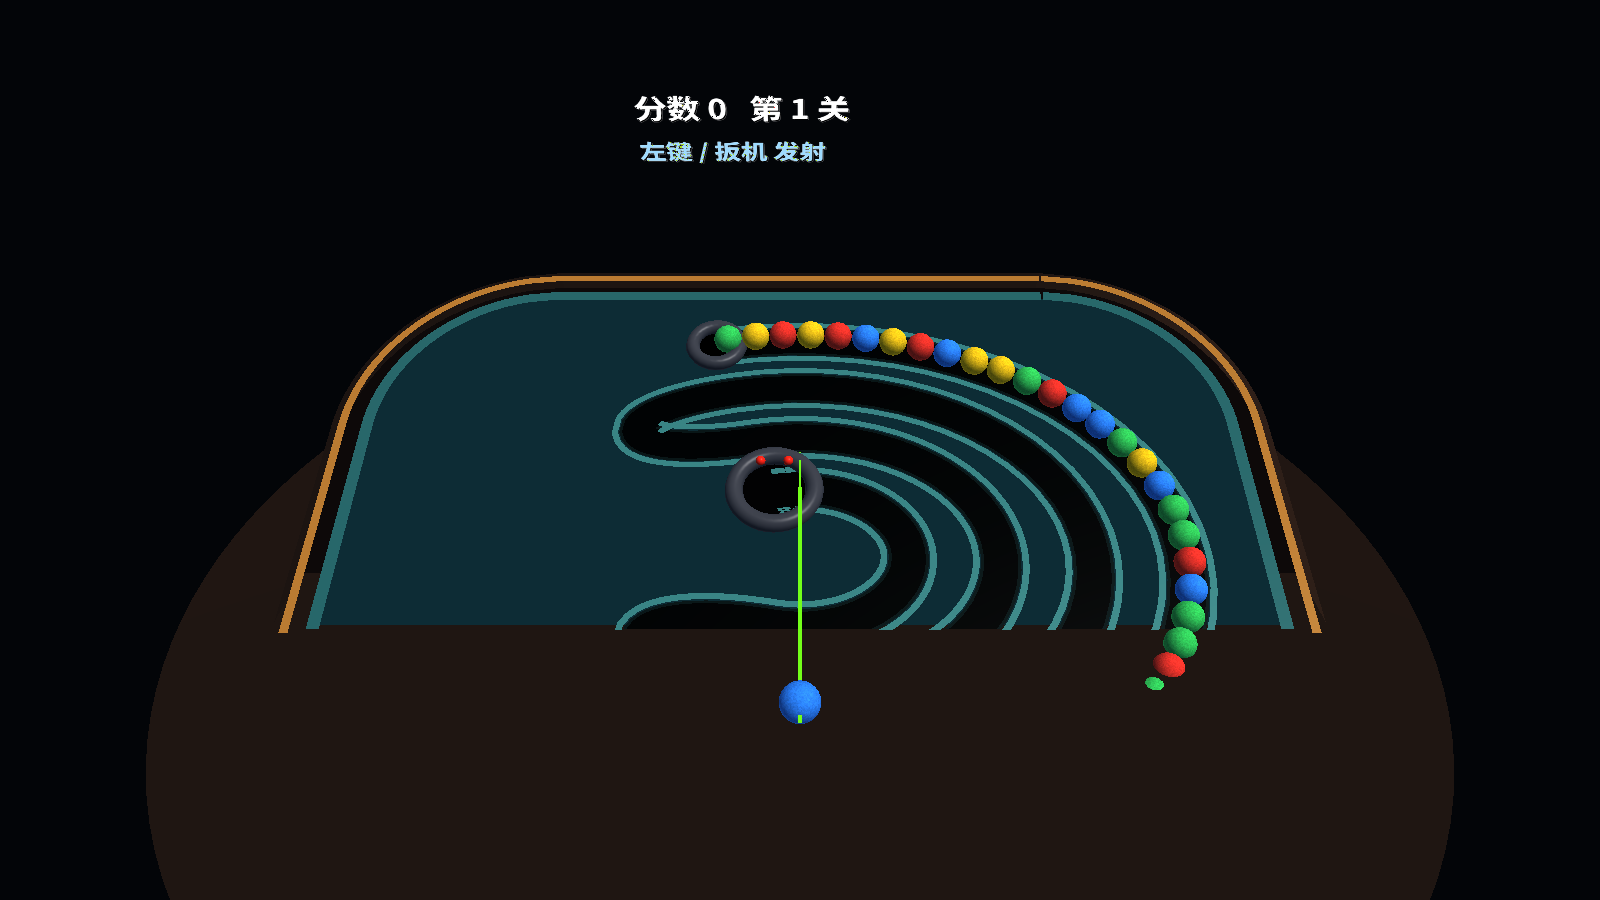
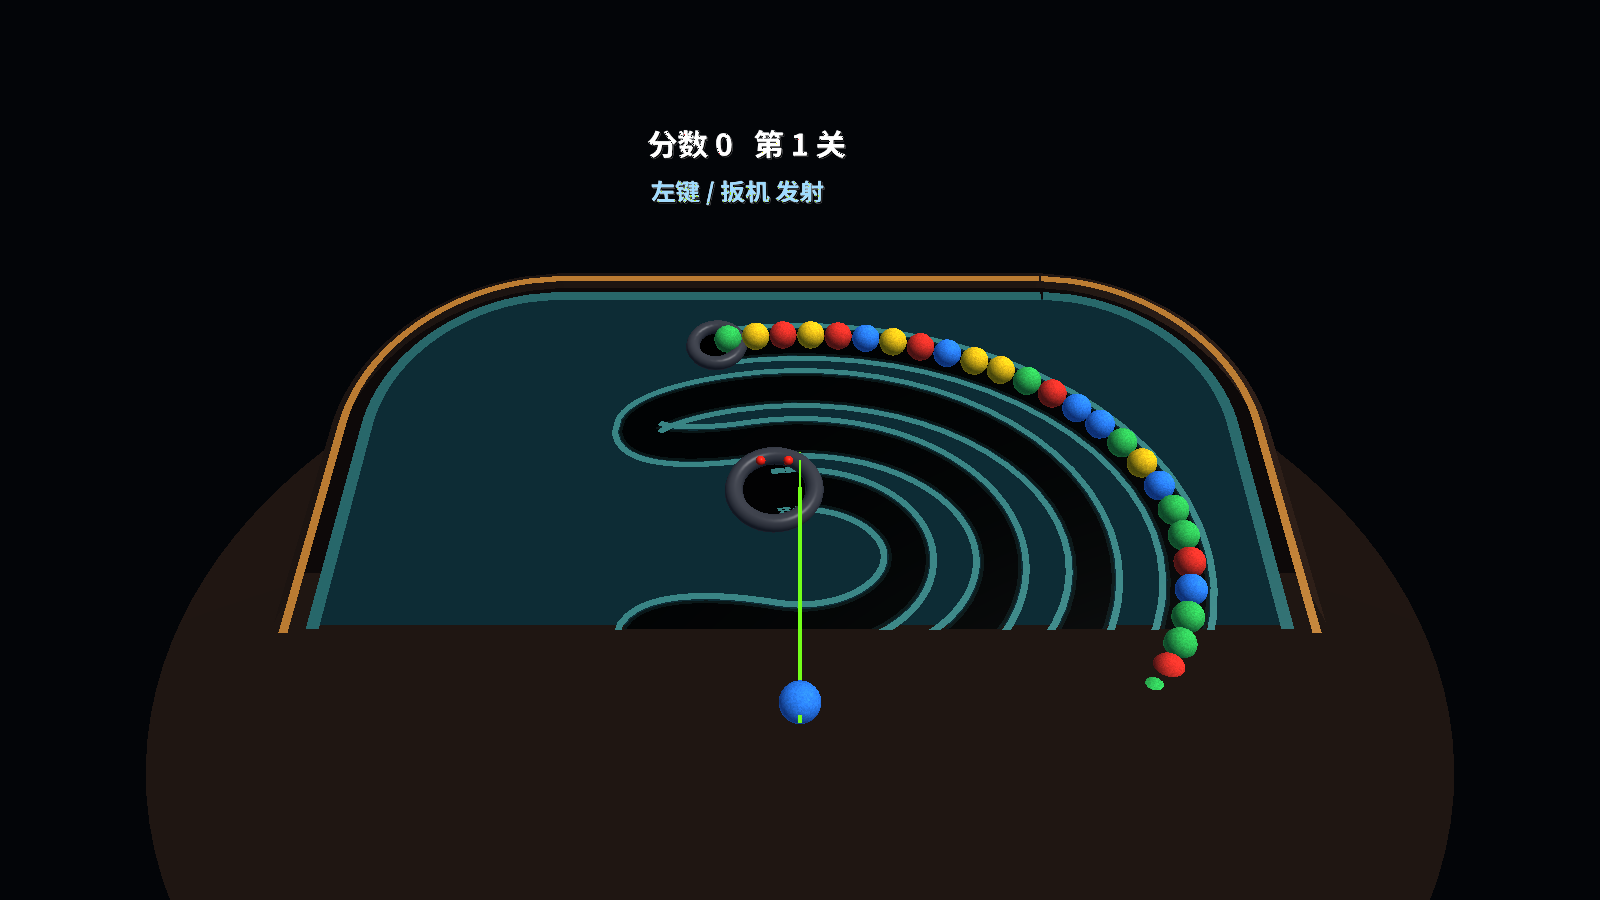
feat(vr): HUD 与结算文字改用直立坐标系，永不受桌面倾角影响
- Draw 增加 hud 矩阵：桌面/盘面仍带倾角，文字用不带倾角的同一尺度框架
- VR 的 hudFrame = Translate(0, tableY, tableZ)·Scale，桌面窗口用单位阵
- 记分栏与结算/结束文字的局部高度上抬（1.15/0.89 m），补偿原来被 20° 倾角抬起来的那部分
- 文档截图重新生成；README 说明文字 90° 直立

Changed region(s): [[0.375, 0.0933, 0.5312, 0.2489]]

diff --git a/internal/render/render.go b/internal/render/render.go
@@ -555,7 +555,10 @@ func (r *Renderer) drawController(pose mgl32.Mat4) {
 	}
 }
 
-func (r *Renderer) Draw(vp mgl32.Mat4, cam mgl32.Vec3, world mgl32.Mat4, g *game.Game, now float64, aimO, aimD mgl32.Vec3, aimOK bool, hand mgl32.Mat4, handOK bool) {
+// Draw renders the round. world places the table (it carries the tilt); hud is
+// the same frame without that tilt, so the score and result text always stand
+// upright in the room.
+func (r *Renderer) Draw(vp mgl32.Mat4, cam mgl32.Vec3, world, hud mgl32.Mat4, g *game.Game, now float64, aimO, aimD mgl32.Vec3, aimOK bool, hand mgl32.Mat4, handOK bool) {
 	r.meshProg.Bind()
 	r.meshProg.Mat4(r.uVP, vp)
 	r.meshProg.Vec3(r.uCam, cam[0], cam[1], cam[2])
@@ -627,7 +630,7 @@ func (r *Renderer) Draw(vp mgl32.Mat4, cam mgl32.Vec3, world mgl32.Mat4, g *game
 		r.drawHand(world, g, aimO, aimD, now)
 	}
 
-	r.drawHUD(vp, world, g, now)
+	r.drawHUD(vp, hud, g, now)
 }
 
 func (r *Renderer) drawDot(world mgl32.Mat4, pos mgl32.Vec2, radius float32) {
@@ -811,13 +814,13 @@ func (r *Renderer) drawBallWorld(world mgl32.Mat4, at mgl32.Vec3, radius float32
 }
 
 // drawHUD lays the score plaque above the far rim.
-func (r *Renderer) drawHUD(vp mgl32.Mat4, world mgl32.Mat4, g *game.Game, now float64) {
-	base := world.Mul4(mgl32.Translate3D(0, 0, -1.88))
+func (r *Renderer) drawHUD(vp mgl32.Mat4, hud mgl32.Mat4, g *game.Game, now float64) {
+	base := hud.Mul4(mgl32.Translate3D(0, 0, -1.88))
 	scoreCol := rgba(1, 1, 1, 0.97)
 	if f := g.Flash; f > 0 {
 		scoreCol = rgba(1, 1-0.15*f, 1-0.55*f, 0.97)
 	}
-	r.drawText(vp, base, -0.74, 0.845, 46, fmt.Sprintf("分数 %d   第 %d 关", g.Score, g.Level), alignLeft, scoreCol)
+	r.drawText(vp, base, -0.74, 1.15, 46, fmt.Sprintf("分数 %d   第 %d 关", g.Score, g.Level), alignLeft, scoreCol)
 	line2 := ""
 	switch {
 	case g.State == game.StateLost && g.LoseReady():
@@ -833,12 +836,12 @@ func (r *Renderer) drawHUD(vp mgl32.Mat4, world mgl32.Mat4, g *game.Game, now fl
 	if g.State == game.StateLost && g.LoseReady() {
 		col2 = rgba(1.0, 0.72, 0.55, 0.95)
 	}
-	r.drawText(vp, base, -0.74, 0.585, 38, line2, alignLeft, col2)
+	r.drawText(vp, base, -0.74, 0.89, 38, line2, alignLeft, col2)
 
 	// The win/lose overlay floats over the middle of the felt: with the table
 	// tilting about its own centre, the near edge is the lowest part of the
 	// playfield and text parked there ends up face-on to the table's front.
-	overlay := world.Mul4(mgl32.Translate3D(0, 0, -0.25))
+	overlay := hud.Mul4(mgl32.Translate3D(0, 0, -0.25))
 	switch g.State {
 	case game.StateWon:
 		r.drawText(vp, overlay, 0, 1.06, 64, fmt.Sprintf("第 %d 关 通过!", g.Level), alignCenter, rgba(1.0, 0.93, 0.55, 1))

diff --git a/cmd/zuma/main.go b/cmd/zuma/main.go
@@ -459,7 +459,7 @@ func (a *app) renderDesktop(now float64) {
 		return
 	}
 	a.r.DrawStatic(vp, mgl32.Ident4())
-	a.r.Draw(vp, eye, a.tilt, a.g, now, a.aimO, a.aimD, a.aimOK, a.handPose, a.handPoseOK)
+	a.r.Draw(vp, eye, a.tilt, mgl32.Ident4(), a.g, now, a.aimO, a.aimD, a.aimOK, a.handPose, a.handPoseOK)
 }
 
 func (a *app) renderMirror(now float64) {
@@ -480,7 +480,7 @@ func (a *app) renderMirror(now float64) {
 		return
 	}
 	a.r.DrawStatic(proj.Mul4(view), a.board)
-	a.r.Draw(proj.Mul4(view), cam, a.board, a.g, now, a.aimO, a.aimD, a.aimOK, a.handPose, a.handPoseOK)
+	a.r.Draw(proj.Mul4(view), cam, a.board, a.hudFrame(), a.g, now, a.aimO, a.aimD, a.aimOK, a.handPose, a.handPoseOK)
 }
 
 func (a *app) renderEyes(now float64) {
@@ -503,7 +503,7 @@ func (a *app) renderEyes(now float64) {
 		if a.r.SplashActive(now) {
 			a.r.DrawSplash(proj.Mul4(view), render.SplashPanel(), now)
 		} else {
-			a.r.Draw(proj.Mul4(view), cam, a.board, a.g, now, a.aimO, a.aimD, a.aimOK, a.handPose, a.handPoseOK)
+			a.r.Draw(proj.Mul4(view), cam, a.board, a.hudFrame(), a.g, now, a.aimO, a.aimD, a.aimOK, a.handPose, a.handPoseOK)
 		}
 		rt.Resolve()
 		gl.Flush()
@@ -691,6 +691,13 @@ func (a *app) placeBoard() {
 			bd.W, bd.H, a.tableY, deg, near, a.tableY, far, a.tableY-0.10*tableScale)
 	}
 	a.placedBoard = bd
+}
+
+// hudFrame is where the score and result text live: the table frame without its
+// tilt, so the text stands upright in the room at every board angle.
+func (a *app) hudFrame() mgl32.Mat4 {
+	return mgl32.Translate3D(0, a.tableY, tableZ).
+		Mul4(mgl32.Scale3D(tableScale, tableScale, tableScale))
 }
 
 // pressFire is the single fire button: on the win screen it throws the

diff --git a/README.md b/README.md
@@ -33,7 +33,8 @@ start-up.
   to the floor (**0.50 m** by default), and the tilt turns the whole table about
   the same origin (**20°** by default). Both are on the controller: the right
   stick moves the height between 0.15 m and 1.65 m, the left stick trims the
-  tilt between flat and 35°.
+  tilt between flat and 35°. The score header and the win/lose text keep their
+  own upright frame: they stand at 90° to the floor whatever the table angle.
 - The desktop window is the development/mirror view of the left eye.
 
 ### Screenshots
@@ -204,7 +205,7 @@ changing any on-screen text.
   射线末端不画准星——射线停在哪颗球上就插在哪。
 - **场景**：盘面立在面前的桌上，像弹球台一样后仰 20°；标题页固定在房间里某个
   坐标，转头不会拖着它走。桌面窗口只是左眼的调试镜像。
-- 桌面有自己的坐标系：原点取毡面中心，**桌面高度＝原点到地面的距离（默认 0.50 m）**，倾角绕这个原点旋转（默认 20°）。右手摇杆上下调高度（0.15–1.65 m），左手摇杆上下调倾角（向上更平、向下更陡，0–35°）；桌子与盘面作为同一个刚体一起转，HUD 文字画在桌面平面上。
+- 桌面有自己的坐标系：原点取毡面中心，**桌面高度＝原点到地面的距离（默认 0.50 m）**，倾角绕这个原点旋转（默认 20°）。右手摇杆上下调高度（0.15–1.65 m），左手摇杆上下调倾角（向上更平、向下更陡，0–35°）；桌子与盘面作为同一个刚体一起转。HUD 信息与结算文字独占一个「直立坐标系」——在世界里始终与地面垂直，不跟桌面倾角走。
 - 过关后结算页会等你扣扳机：一击沿射线方向、20° 圆锥内随机角度喷出 30 颗各色球，
   就是普通的空射（同样速度、同样弹道），伴随一声「砰」，随后进入下一关。
 - 规则：线路/盘形每关随机（单线螺旋、最多两层环、迷宫/圆弧发卡、波浪发卡、
